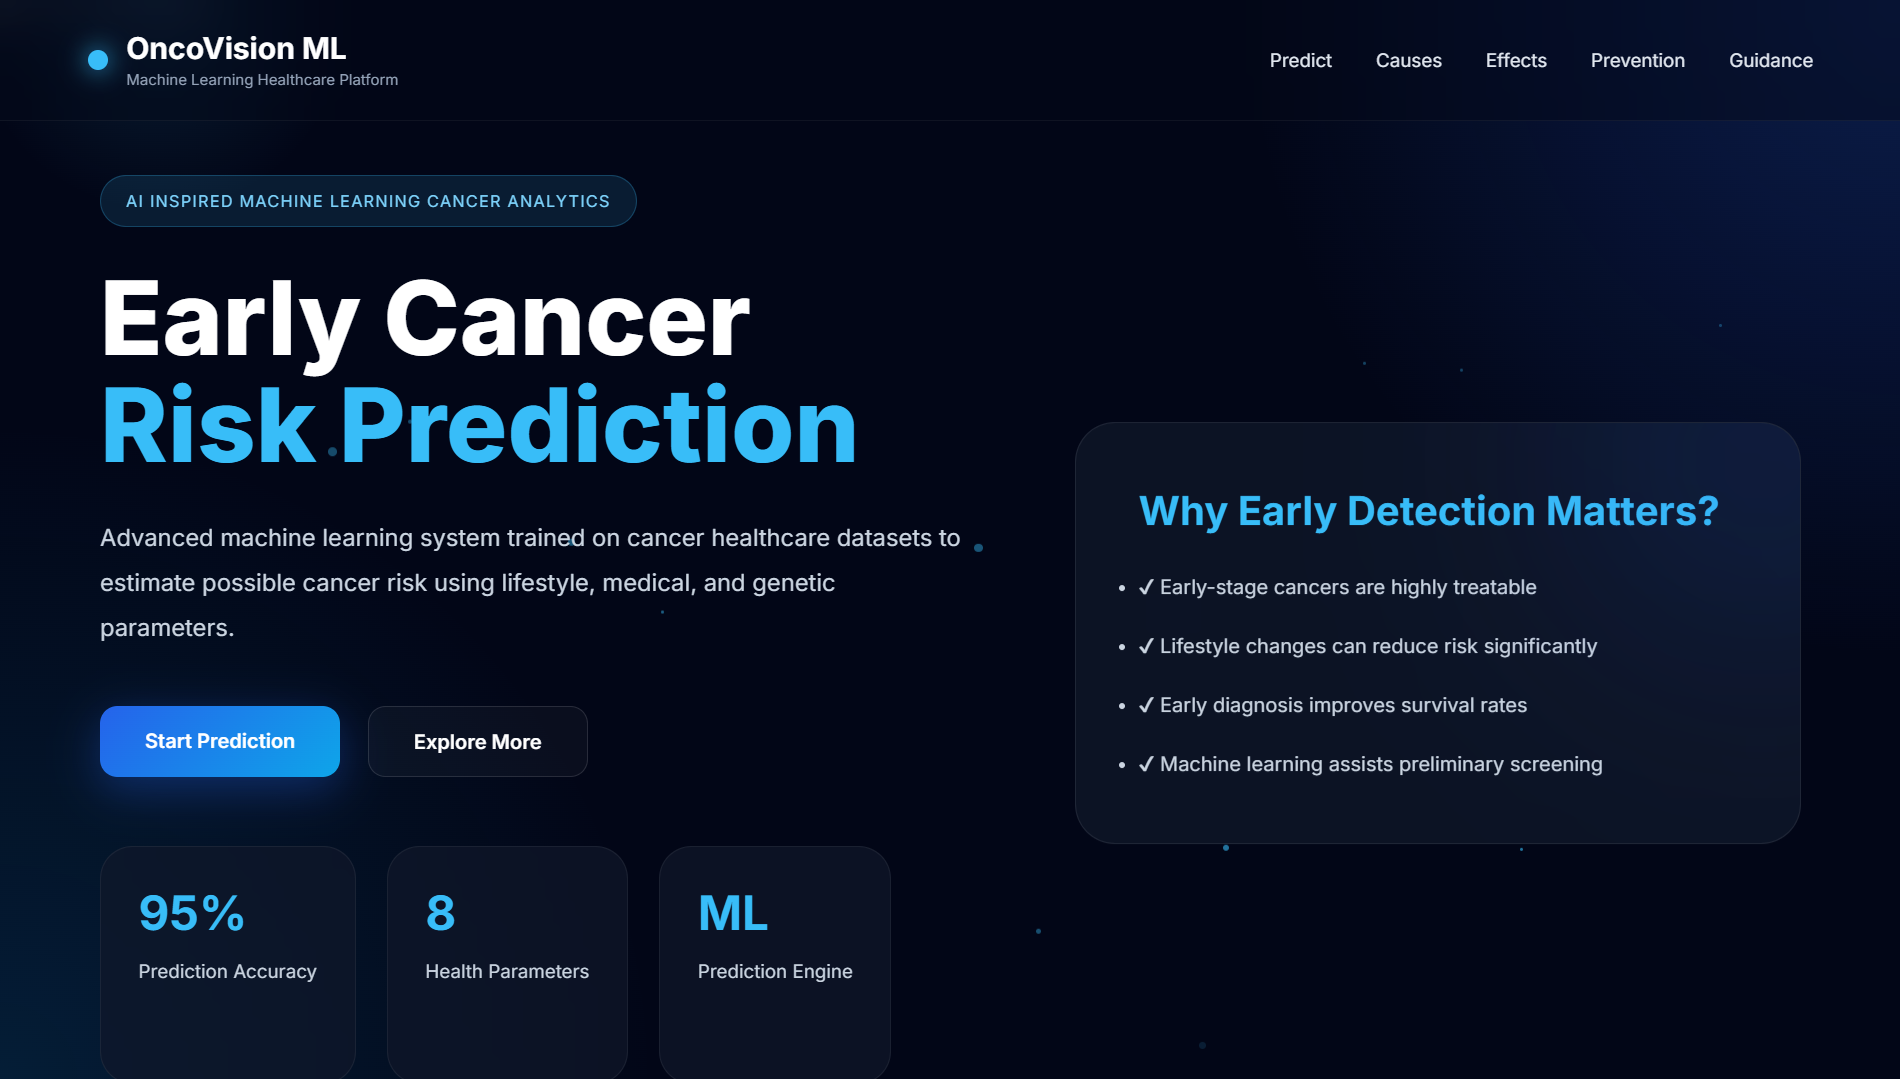
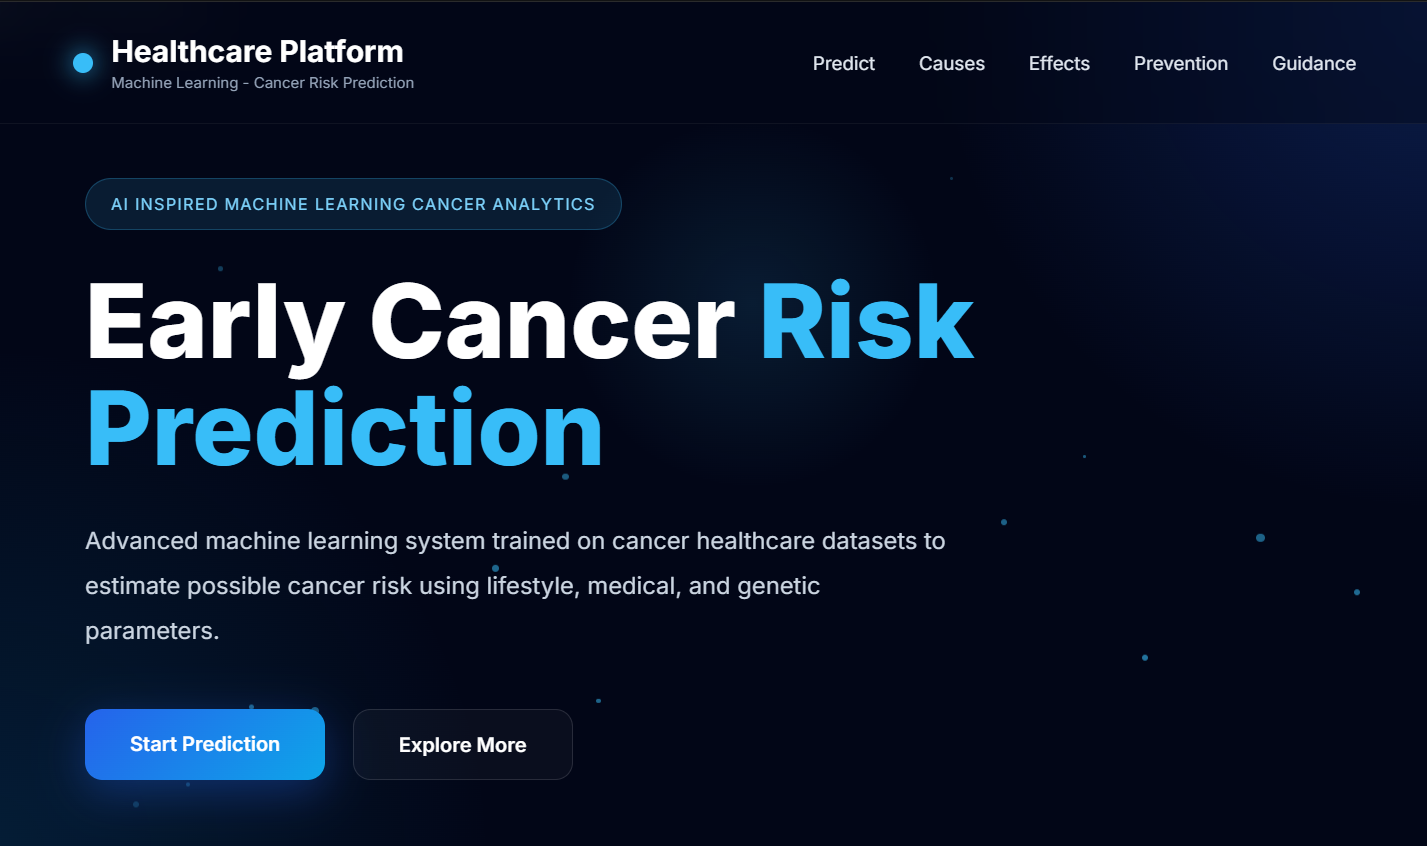
Updated README and website branding

diff --git a/app/templates/index.html b/app/templates/index.html
@@ -6,7 +6,7 @@
     <meta charset="UTF-8">
     <meta name="viewport" content="width=device-width, initial-scale=1.0">
 
-    <title>OncoVision ML | Cancer Risk Prediction</title>
+    <title>Cancer Risk Prediction</title>
 
     <!-- CSS -->
     <link rel="stylesheet"
@@ -47,9 +47,9 @@
 
             <div class="logo-text">
 
-                <h2>OncoVision ML</h2>
+                <h2>Healthcare Platform</h2>
 
-                <span>Machine Learning Healthcare Platform</span>
+                <span>Machine Learning - Cancer Risk Prediction</span>
 
             </div>
 
@@ -631,7 +631,7 @@
 
     <footer class="footer">
 
-        <h2>OncoVision ML</h2>
+        <h2>EARLY HEALTHCARE</h2>
 
         <p>
 

diff --git a/readme.md b/readme.md
@@ -1,6 +1,11 @@
-# 🧬 Cancer Prediction ML Web Application
+# 🧬 Cancer Prediction ML Web Application                                            
 
 A Machine Learning web application developed to predict cancer risk using healthcare and lifestyle parameters. The project combines data science, machine learning, and web development into a complete end-to-end predictive healthcare system. 
+
+# 🌐 Live Website
+
+https://cancer-prediction-ml.up.railway.app
+
 
 ---
 
@@ -40,7 +45,7 @@ The system analyzes patient health parameters and predicts possible cancer risk 
 
 The project follows a complete professional ML pipeline:
 
-```text
+
 Raw Dataset
    ↓
 Data Cleaning
@@ -58,14 +63,14 @@ Model Evaluation
 Model Saving
    ↓
 Flask Deployment
-```
+
 
 
 
 
 # 📂 Project Structure
 
-```text
+
 Cancer-Prediction-ML/
 │
 ├── app/
@@ -100,7 +105,7 @@ Cancer-Prediction-ML/
 ├── README.md
 │
 └── train_model.py
-```
+
 
 ---
 
@@ -201,7 +206,7 @@ The frontend was developed using:
 
 The model training pipeline includes:
 
-```python
+
 Data Cleaning
 → Feature Engineering
 → Train-Test Split
@@ -210,7 +215,7 @@ Data Cleaning
 → Hyperparameter Tuning
 → Evaluation
 → Model Saving
-```
+
 
 ---
 
@@ -238,42 +243,40 @@ The model was evaluated using:
 
 ## 1️⃣ Clone Repository
 
-```bash
+
 git clone https://github.com/NITHESH-0010/Cancer-Prediction-ML.git
-```
+
 
 ---
 
 ## 2️⃣ Open Project
 
-```bash
+
 cd Cancer-Prediction-ML
-```
+
 
 ---
 
 ## 3️⃣ Install Dependencies
 
-```bash
+
 pip install -r requirements.txt
-```
+
 
 ---
 
 ## 4️⃣ Run Flask Application
 
-```bash
+
 cd app
 python app.py
-```
+
 
 ---
 
 ## 5️⃣ Open Browser
 
-```text
-http://127.0.0.1:5000
-```
+https://cancer-prediction-ml.up.railway.app
 
 ---
 